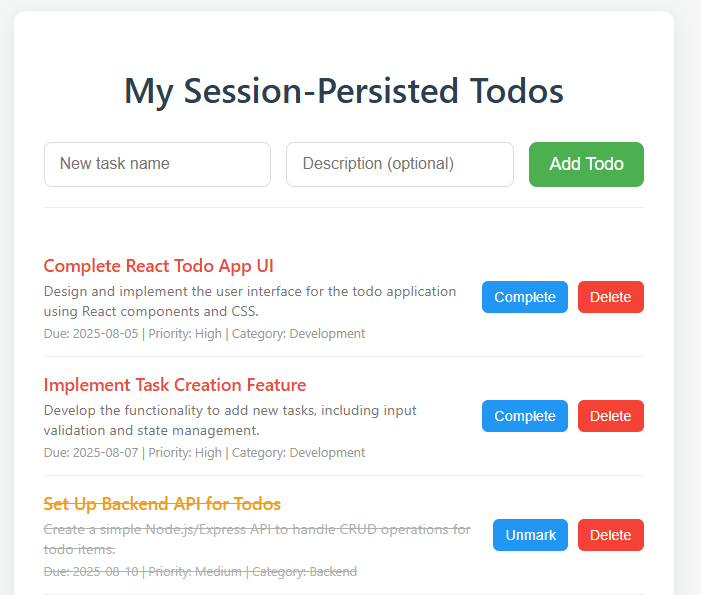
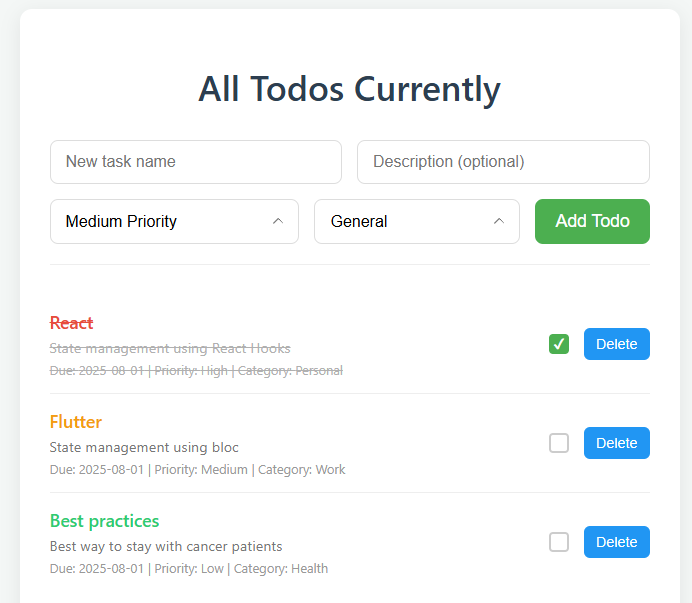
added Image, Modified the form Heading

diff --git a/src/pages/TodoApp.js b/src/pages/TodoApp.js
@@ -71,7 +71,7 @@ const TodoApp=()=>{
 
     return (
     <div className="todo-container">
-      <h1>My Session-Persisted Todos</h1>
+      <h1>All Todos Currently</h1>
 
       <form className="add-todo-form" onSubmit={(e) => {
         e.preventDefault();
